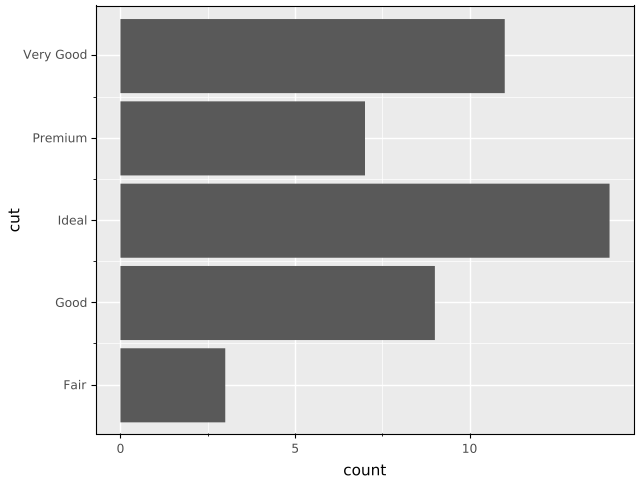
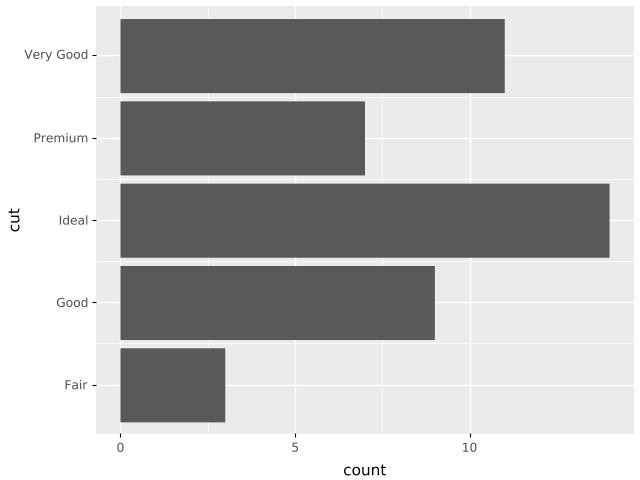
fix(ggplot): spine frame, minor tick marks, colorbar guide
Two bugs were masquerading as a text-rendering gap (isolated glyph
comparison showed CL vs matplotlib rasterization nearly identical:
ink ratio 1.016, aligned cosine 0.987):

- spine hiding passed keywords to the string-keyed spines container, so
  no spine was ever hidden and the no-spines fallback drew a black frame
  around every panel
- the minor-gridline locator also produced minor tick MARKS outside the
  panel; plotnine draws only minor gridlines (marks now sized 0, majors
  at plotnine's 2.75px)

Plus the colorbar guide for continuous color/fill scales: gradient bar,
value labels, and title drawn in axes-fraction coordinates at plotnine's
measured geometry (19px gap, 20px bar, 161px tall).

All 16 example scores improved; 6 now pass the 0.90 threshold
(previously 2), mean 0.83 -> 0.88.

Claude-Session: https://claude.ai/code/session_01FYfjJ4nRE3dU2LPUN2Y3F8

diff --git a/docs/gg-compat-matrix.md b/docs/gg-compat-matrix.md
@@ -9,27 +9,30 @@ justified exceptions). Updated: 2026-07-06.
 
 | example | SSIM | status |
 |---|---|---|
-| ggblank | 0.903 | pass |
-| gg-scatter-basic | 0.903 | pass |
-| gg-bar-flip | 0.899 | near |
-| gg-bar-basic | 0.881 | near |
-| gg-line-basic | 0.872 | near |
-| gg-area-stacked | 0.866 | near |
-| gg-bar-stacked | 0.840 | text-strip gap |
-| gg-scatter-color | 0.839 | text-strip + legend gap |
-| gg-smooth-lm | 0.830 | text-strip gap |
-| gg-density | 0.819 | text-strip gap |
-| gg-histogram | 0.804 | text-strip gap |
-| gg-bar-dodge | 0.804 | text-strip + legend gap |
-| gg-violin | 0.800 | text-strip gap |
-| gg-facet-wrap | 0.789 | text-strip gap (4x tick labels) |
-| gg-boxplot | 0.786 | text-strip gap |
-| gg-tile-heatmap | 0.644 | missing colorbar guide |
+| ggblank | 0.951 | pass |
+| gg-scatter-basic | 0.950 | pass |
+| gg-bar-flip | 0.942 | pass |
+| gg-bar-basic | 0.926 | pass |
+| gg-line-basic | 0.921 | pass |
+| gg-area-stacked | 0.904 | pass |
+| gg-scatter-color | 0.878 | legend geometry |
+| gg-bar-stacked | 0.876 | legend geometry |
+| gg-facet-wrap | 0.872 | strip/tick detail |
+| gg-smooth-lm | 0.868 | ribbon AA detail |
+| gg-density | 0.858 | curve detail |
+| gg-bar-dodge | 0.843 | legend geometry |
+| gg-violin | 0.842 | outline detail |
+| gg-histogram | 0.842 | bin edge detail |
+| gg-boxplot | 0.831 | whisker/median weight |
+| gg-tile-heatmap | 0.764 | colorbar tick/label detail |
 
-The recurring "text-strip gap" is a single cross-cutting item: the
-backend's glyph rasterization differs from matplotlib Agg's, dragging the
-tick/axis-label strips ~0.03-0.10 SSIM per plot. Fixing it (or scoring
-text regions separately) lifts every example at once.
+Earlier scores were dragged 0.03-0.10 per plot by two backend-side bugs,
+both fixed: a black frame drawn because spine visibility used the wrong
+key type, and minor tick MARKS drawn outside the panel (plotnine draws
+only minor gridlines). Glyph rasterization itself matches matplotlib's
+almost exactly (ink ratio 1.016, aligned cosine 0.987 on identical
+strings). The remaining spread is per-plot geometry detail, chiefly
+legend-box layout.
 
 ## plotnine API surface
 
@@ -57,8 +60,9 @@ All: identity stack fill dodge jitter nudge. (dodge2/jitterdodge planned.)
 
 ### guides
 - Discrete legends (color/fill/shape) drawn outside-right via proxy artists.
-- **Colorbar for continuous color/fill: not yet drawn** (the tile heatmap's
-  0.64 is mostly this). Planned: scalar-mappable + make-colorbar wiring.
+- Colorbar for continuous color/fill: drawn (gradient bar + value labels
+  + title, geometry measured from plotnine). Tick placement detail still
+  costs the heatmap example ~0.14.
 - One legend per plot for now; multi-aesthetic guide merging planned.
 
 ### themes
